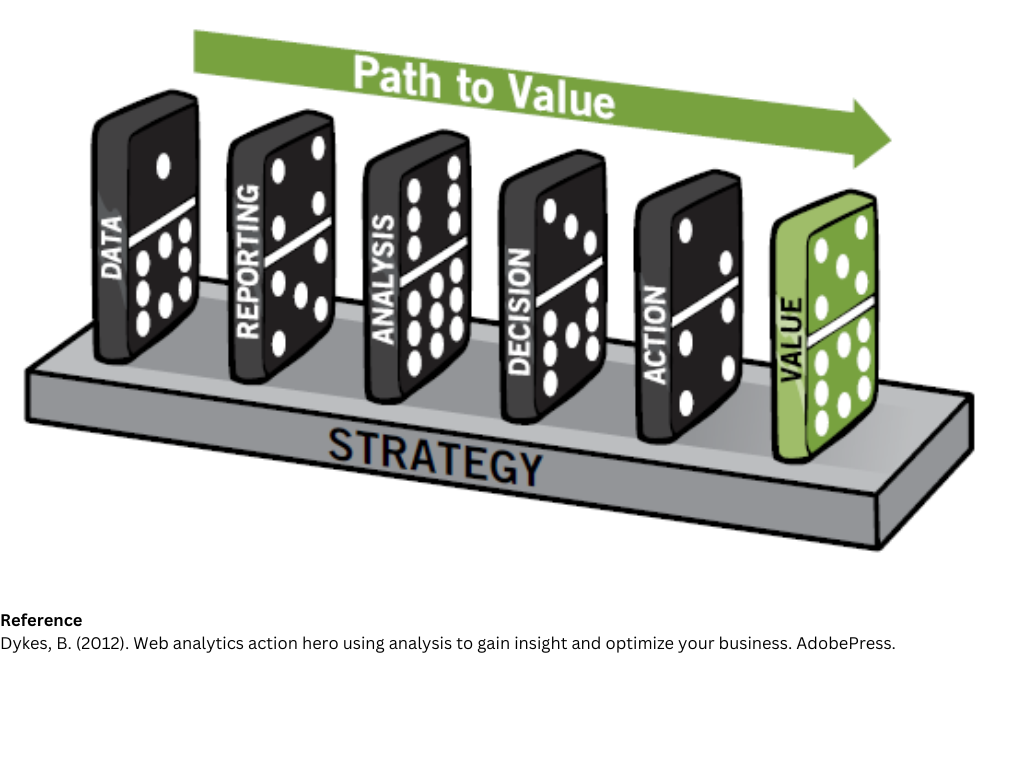
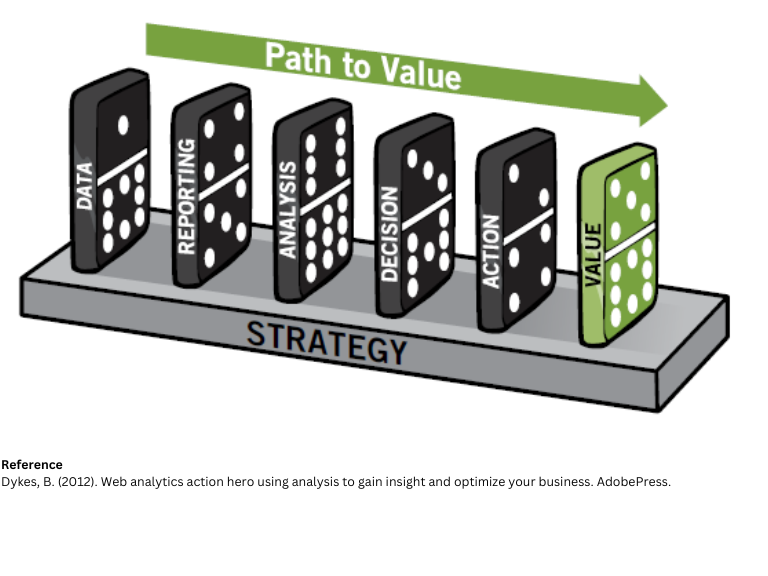
content changed

diff --git a/docs/consulting.html b/docs/consulting.html
@@ -146,7 +146,7 @@ ul.task-list li input[type="checkbox"] {
 <p>Business Analysis &amp; Strategy</p>
 </h5>
 <p class="card-text">
-</p><p>From designing your quality data generation methods to informed business decisions and actions, we help you optimize your business across functions. These range from manufacturing and human resource management all the way to customer relationship management.</p>
+</p><p>We conduct deep dive analysis and carry optimization efforts to help companies generate more sales, reduce marketing costs, enhance campaign performances, provide better user experience, reach specific target segments and more.</p>
 <p></p>
 </div>
 <div class="consulting g-col-4">
@@ -155,7 +155,7 @@ ul.task-list li input[type="checkbox"] {
 <p>Macro Analysis &amp; Research</p>
 </h5>
 <p class="card-text">
-</p><p>We specialize in areas of Socio Economic Development, Public Health and Macro Economic analysis. Our unique statistical insights and trends provide detail picture of how these changes impact countries, consumers and business environment.</p>
+</p><p>We specialize in areas of Socio Economic Development, Public Health and Macro Economic analysis. Our unique statistical insights and trends provide detailed picture of how these changes impact countries, consumers and business environment.</p>
 <p></p>
 </div>
 <div class="consulting g-col-4">
@@ -173,7 +173,7 @@ ul.task-list li input[type="checkbox"] {
 <p>Predictive Analytics</p>
 </h5>
 <p class="card-text">
-</p><p>Our data science team applies latest software technologies in Machine Learning and Statistics to gather quality datasets from web and markets to help you forecast your product sales, position and rank your products across brands. We help you collect, organize, analyze and report your business data and KPI’s.</p>
+</p><p>Our data science team applies state of the art methodologies in Machine Learning and Statistics to help you create demand forecasts of your products, recommendation systems to cross sell products, gain insights into consumer behaviour across different customer demographics and segments, and much more.</p>
 <p></p>
 </div>
 <div class="consulting g-col-4">

diff --git a/docs/styles.css b/docs/styles.css
@@ -171,22 +171,19 @@
 }
 
 .domino {
- background-image: url("images/domino.png"); 
- height: 550px;
- margin-left: 250px;
- margin-right: 250px;
+ max-width: 100%;
+ height: auto;
+ text-align: center;
  margin-top: 50px;
- background-size: cover;
+ 
  
 }
 
 .pyramid {
- background-image: url("images/pyramid.png"); 
- height: 600px;
- margin-left: 250px;
- margin-right: 250px;
- margin-top: 50px;
- background-size: cover;
+ width: 100%;
+ height: auto;
+ text-align: center;
+ 
  
 }
 
@@ -216,7 +213,7 @@
 }
 
 #aboutus {
-  margin-top: 50px;
+
   margin-right: 150px;
   margin-left: 150px;
   text-align: center;

diff --git a/styles.css b/styles.css
@@ -171,22 +171,19 @@
 }
 
 .domino {
- background-image: url("images/domino.png"); 
- height: 550px;
- margin-left: 250px;
- margin-right: 250px;
+ max-width: 100%;
+ height: auto;
+ text-align: center;
  margin-top: 50px;
- background-size: cover;
+ 
  
 }
 
 .pyramid {
- background-image: url("images/pyramid.png"); 
- height: 600px;
- margin-left: 250px;
- margin-right: 250px;
- margin-top: 50px;
- background-size: cover;
+ width: 100%;
+ height: auto;
+ text-align: center;
+ 
  
 }
 
@@ -216,7 +213,7 @@
 }
 
 #aboutus {
-  margin-top: 50px;
+
   margin-right: 150px;
   margin-left: 150px;
   text-align: center;

diff --git a/docs/exploratory-sunday.html b/docs/exploratory-sunday.html
@@ -352,7 +352,7 @@ Nov 13, 2022
 </div>
 </a>
 </div>
-<div class="g-col-1" data-index="5" data-categories="Education" data-listing-date-sort="1670698800000" data-listing-file-modified-sort="1670927185046" data-listing-reading-time-sort="2.17">
+<div class="g-col-1" data-index="5" data-categories="Education" data-listing-date-sort="1670698800000" data-listing-file-modified-sort="1672135411209" data-listing-reading-time-sort="2.17">
 <a href="./Exploratory-Sunday/11-12-22/school-dropout.html" class="quarto-grid-link">
 <div class="quarto-grid-item card h-100 card-left">
 <p class="card-img-top">

diff --git a/docs/index.html b/docs/index.html
@@ -127,7 +127,7 @@ ul.task-list li input[type="checkbox"] {
 
 </div>
 <div class="domino">
-
+<p><img src="images/domino.png"></p>
 </div>
 <div id="aboutus">
 <h3>
@@ -145,7 +145,7 @@ ul.task-list li input[type="checkbox"] {
 </h3>
 </div>
 <div class="pyramid">
-
+<p><img src="images/pyramid.png"></p>
 </div>
 <div class="button3">
 <p><a href="./index.html#cont"> <button class="btn btn-outline-primary btn-lg">Get in touch</button> </a></p>
